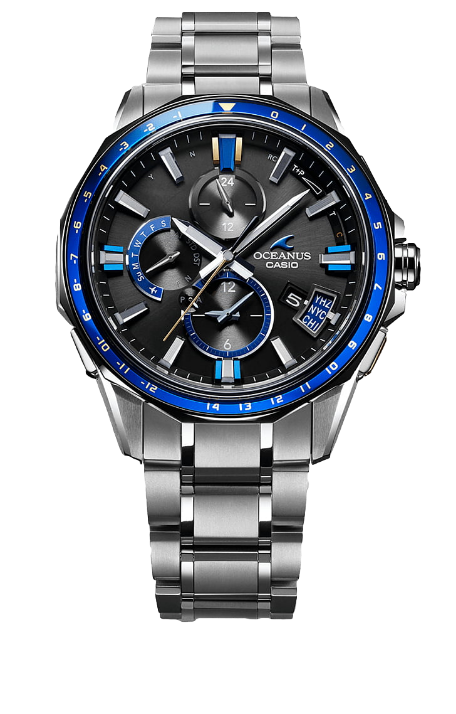
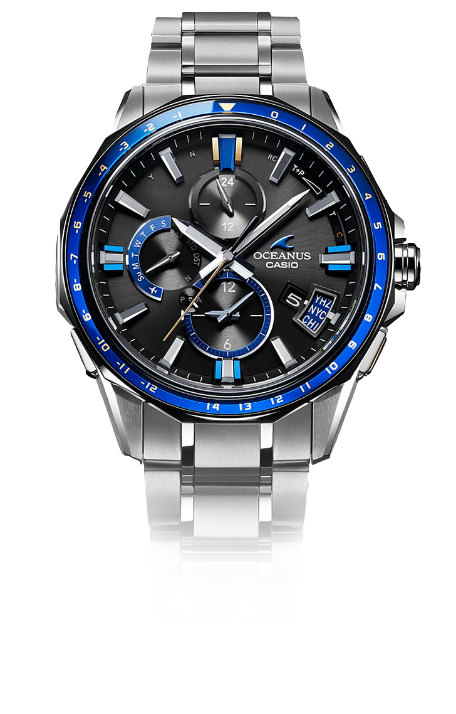
Section 2 Completion

Changed region(s): [[0.307, 0.6162, 0.6754, 0.8936]]

diff --git a/stylesheet.css b/stylesheet.css
@@ -230,15 +230,20 @@ a, li {
     }
 
     .title h1, .title h2 {
-        line-height: 60px;
+        line-height: 50px;
     }
 
     .title h1 {
-        font-size: 5.5vh;
+        font-size: 6vh;
     }
 
     .title h2 {
-        font-size: 3.5vh;
+        font-size: 4vh;
+    }
+
+    .title button {
+        margin:20px auto;
+        width: 90%;
     }
 
 }
@@ -332,22 +337,100 @@ a, li {
 /* ==================================== SECTION 2 ================================= */
 
 .cont-2 {
-    background-color: black;
     color: white;
     height: 750px;
+    background:black url(IMG/WatchCollection.png) no-repeat;
+    background-size: 70%;
+    background-position-y: 50%;
+    background-position-x: 130%;
 }
 
 .info-2 {
     width: 43vw;
+    position: relative;
+    top: 430px;
 }
 
 .info-2 h1 {
     font-size: 6vw;
     font-family: 'Libre Baskerville', serif;
-    margin: 0;
+    margin: 10px 0;
 }
 
 .info-2 h3 {
     font-size: 1vw;
     letter-spacing: 1.65vw;
 }
+
+.info-2 button {
+    width: 200px ;
+    padding: 12px 0;
+}
+
+/* -------------------- SECTION 2: MEDIA QUERIES --------------------------  */
+
+@media (max-width: 1255px) {
+    
+    .cont-2 {
+        background-size: 60%;
+        background-position-y: 30%;
+        background-position-x: 50%;
+    }
+    
+    .info-2 {
+        margin: 0 auto;
+        text-align: center;
+        top: 500px;
+    }
+
+    .info-2 button {
+        margin: 0 auto;
+        text-align: center;
+    }
+
+}
+
+@media (max-width: 750px) {
+
+    .cont-2 {
+
+        background-size: 70%;
+        background-position-y: 30%;
+        background-position-x: 50%;
+    }
+
+    .info-2 {
+        top: 450px;
+        
+    }
+}
+
+@media (max-width: 580px) {
+
+    .cont-2 {
+        background:black url(IMG/Watch2.png) no-repeat;
+        background-size: 70%;
+        background-position-y: 50%;
+        background-position-x: 50%;
+
+    }
+
+    .info-2 {
+        top: 500px;
+        text-shadow: 0px 10px 20px black;
+        width: unset;
+    }
+
+    .info-2 h1 {
+        font-size: 8.5vw;
+    }
+    
+    .info-2 h3 {
+        font-size: 2.2vw;
+        letter-spacing: 1.65vw;
+    
+}
+
+/* ==================================== SECTION 3 ====================================== */
+
+

diff --git a/index.html b/index.html
@@ -52,6 +52,7 @@
         </div>
     </section>
 
+    
     <section class="cont-2">
         <div class="wrapper">
             <div class="info-2">
